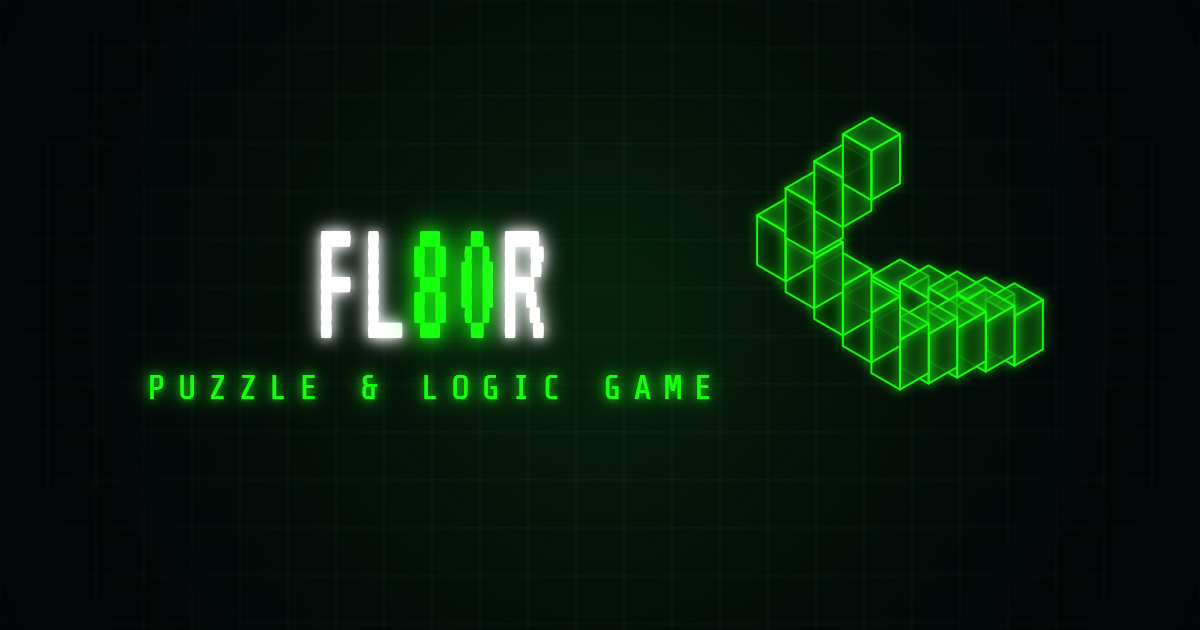
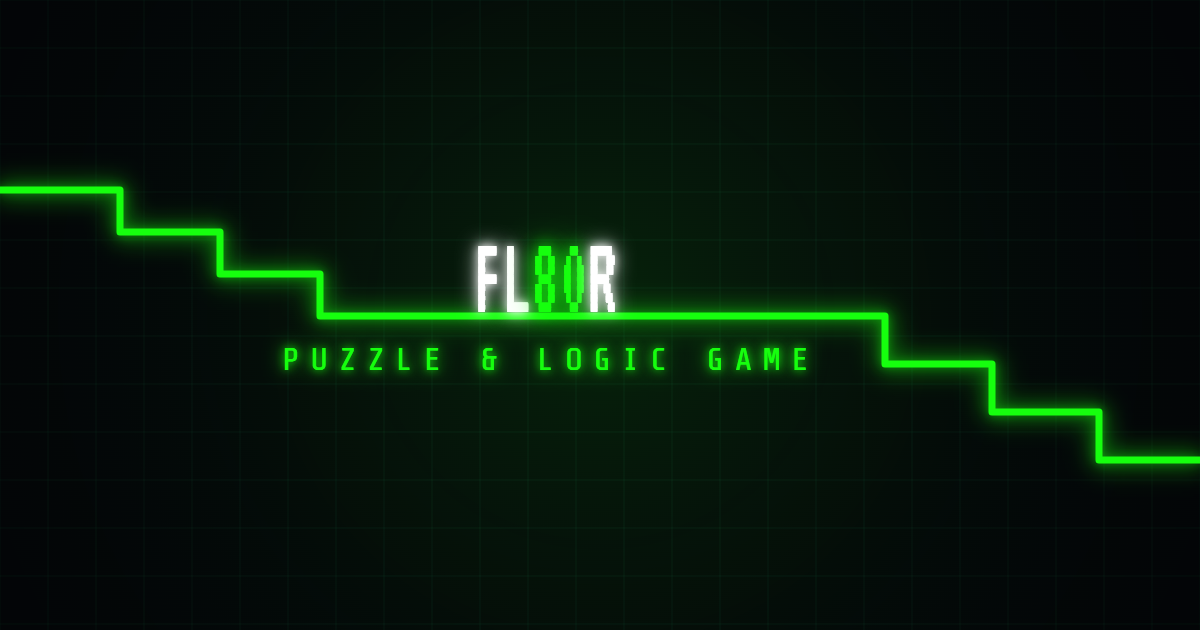
OG image: redesign as a flat side-view neon staircase
Replaced the isometric block staircase with a 2D side-profile staircase line
that descends across the whole banner, with FL80R resting on the center
landing and the "Puzzle & Logic Game" subtitle just below it (matching the
requested layout).

Changed region(s): [[0.0, 0.181, 1.0, 0.754]]

diff --git a/fl80r-game/tools/og-gen.html b/fl80r-game/tools/og-gen.html
@@ -14,78 +14,51 @@
     <script>
       const GREEN = "#16ff0e";
 
-      function isoPt(x, y, z, s, ox, oy) {
-        const cos = Math.cos(Math.PI / 6), sin = Math.sin(Math.PI / 6);
-        return {
-          x: ox + (x - y) * cos * s,
-          y: oy + (x + y) * sin * s - z * s,
+      function background(ctx, W, H) {
+        ctx.fillStyle = "#04070a";
+        ctx.fillRect(0, 0, W, H);
+        const g = ctx.createRadialGradient(W / 2, H / 2, 40, W / 2, H / 2, W * 0.6);
+        g.addColorStop(0, "rgba(22,255,14,0.10)");
+        g.addColorStop(1, "rgba(0,0,0,0)");
+        ctx.fillStyle = g;
+        ctx.fillRect(0, 0, W, H);
+        ctx.strokeStyle = "rgba(26,158,110,0.10)";
+        ctx.lineWidth = 1;
+        for (let x = 0; x <= W; x += 48) { ctx.beginPath(); ctx.moveTo(x, 0); ctx.lineTo(x, H); ctx.stroke(); }
+        for (let y = 0; y <= H; y += 48) { ctx.beginPath(); ctx.moveTo(0, y); ctx.lineTo(W, y); ctx.stroke(); }
+        const v = ctx.createRadialGradient(W / 2, H / 2, H * 0.3, W / 2, H / 2, W * 0.75);
+        v.addColorStop(0, "rgba(0,0,0,0)");
+        v.addColorStop(1, "rgba(0,0,0,0.5)");
+        ctx.fillStyle = v;
+        ctx.fillRect(0, 0, W, H);
+      }
+
+      // Flat 2D side-profile staircase line, descending left to right,
+      // with a wide landing in the middle where the wordmark rests.
+      function drawStairLine(ctx, pts) {
+        const trace = () => {
+          ctx.beginPath();
+          pts.forEach((p, i) => (i ? ctx.lineTo(p[0], p[1]) : ctx.moveTo(p[0], p[1])));
         };
-      }
-
-      // Impossible (Penrose) staircase: solid neon step-blocks around a
-      // square loop, each a little higher than the last.
-      function facePath(ctx, pts) {
-        ctx.beginPath();
-        ctx.moveTo(pts[0].x, pts[0].y);
-        for (let i = 1; i < pts.length; i++) ctx.lineTo(pts[i].x, pts[i].y);
-        ctx.closePath();
-      }
-
-      function drawStairs(ctx, ox, oy, s, opacity) {
-        const L = 4;          // steps per side
-        const riseZ = 0.32;   // rise per step (low so the loop stays compact)
-        const T = 1.5;        // block thickness (tall enough to read as a step)
-
-        // Footprint cells clockwise around a square ring (no duplicate corners).
-        const cells = [];
-        for (let x = 0; x < L; x++) cells.push([x, 0]);
-        for (let y = 0; y < L; y++) cells.push([L, y]);
-        for (let x = L; x > 0; x--) cells.push([x, L]);
-        for (let y = L; y > 0; y--) cells.push([0, y]);
-
-        // Center the footprint around the origin.
-        const mid = L / 2;
         ctx.save();
-        ctx.globalAlpha = opacity;
+        ctx.strokeStyle = GREEN;
+        ctx.shadowColor = GREEN;
         ctx.lineJoin = "round";
-
-        cells.forEach(([cx0, cy0], i) => {
-          const cx = cx0 - mid, cy = cy0 - mid;
-          const zTop = i * riseZ + T;
-          const zBot = i * riseZ;
-
-          const P = (x, y, z) => isoPt(x, y, z, s, ox, oy);
-          // top face
-          const t = [P(cx, cy, zTop), P(cx + 1, cy, zTop), P(cx + 1, cy + 1, zTop), P(cx, cy + 1, zTop)];
-          // right face (x+1 plane)
-          const r = [P(cx + 1, cy, zTop), P(cx + 1, cy + 1, zTop), P(cx + 1, cy + 1, zBot), P(cx + 1, cy, zBot)];
-          // left/front face (y+1 plane)
-          const l = [P(cx, cy + 1, zTop), P(cx + 1, cy + 1, zTop), P(cx + 1, cy + 1, zBot), P(cx, cy + 1, zBot)];
-
-          ctx.shadowBlur = 0;
-          facePath(ctx, l); ctx.fillStyle = "rgba(6,40,6,0.92)"; ctx.fill();
-          facePath(ctx, r); ctx.fillStyle = "rgba(10,70,10,0.92)"; ctx.fill();
-          facePath(ctx, t); ctx.fillStyle = "rgba(16,120,16,0.55)"; ctx.fill();
-
-          ctx.strokeStyle = GREEN;
-          ctx.shadowColor = GREEN;
-          ctx.shadowBlur = 10;
-          ctx.lineWidth = 2;
-          facePath(ctx, l); ctx.stroke();
-          facePath(ctx, r); ctx.stroke();
-          facePath(ctx, t); ctx.stroke();
-        });
+        ctx.lineCap = "round";
+        // outer glow
+        ctx.lineWidth = 7; ctx.shadowBlur = 24; trace(); ctx.stroke();
+        // inner bright core
+        ctx.lineWidth = 3.2; ctx.shadowBlur = 10; trace(); ctx.stroke();
         ctx.restore();
       }
 
-      function drawWordmark(ctx, cx, cy) {
-        // Condensed VT323 like the game (scaleX 0.62)
-        const size = 190;
+      function drawWordmark(ctx, cx, baseY) {
+        const size = 116;
         ctx.save();
-        ctx.translate(cx, cy);
+        ctx.translate(cx, baseY);
         ctx.scale(0.62, 1);
         ctx.font = `${size}px VT323, monospace`;
-        ctx.textBaseline = "middle";
+        ctx.textBaseline = "alphabetic";
         ctx.textAlign = "left";
         const parts = [
           { t: "FL", c: "#ffffff" },
@@ -97,66 +70,50 @@
         for (const p of parts) {
           ctx.fillStyle = p.c;
           ctx.shadowColor = p.c === GREEN ? GREEN : "#ffffff";
-          ctx.shadowBlur = p.c === GREEN ? 34 : 22;
+          ctx.shadowBlur = p.c === GREEN ? 30 : 20;
           ctx.fillText(p.t, x, 0);
-          // second pass for stronger glow
-          ctx.shadowBlur = p.c === GREEN ? 18 : 12;
+          ctx.shadowBlur = p.c === GREEN ? 16 : 10;
           ctx.fillText(p.t, x, 0);
           x += ctx.measureText(p.t).width;
         }
         ctx.restore();
       }
 
-      function drawSubtitle(ctx, cx, cy) {
+      function drawSubtitle(ctx, cx, baseY) {
         ctx.save();
-        ctx.font = "34px 'Share Tech Mono', monospace";
+        ctx.font = "32px 'Share Tech Mono', monospace";
         ctx.textAlign = "center";
-        ctx.textBaseline = "middle";
-        ctx.letterSpacing = "12px";
+        ctx.textBaseline = "alphabetic";
+        ctx.letterSpacing = "11px";
         ctx.fillStyle = GREEN;
         ctx.shadowColor = GREEN;
-        ctx.shadowBlur = 22;
-        ctx.fillText("PUZZLE & LOGIC GAME", cx + 6, cy); // +6 to visually center with letter-spacing
-        ctx.shadowBlur = 10;
-        ctx.fillText("PUZZLE & LOGIC GAME", cx + 6, cy);
+        ctx.shadowBlur = 20;
+        ctx.fillText("PUZZLE & LOGIC GAME", cx + 6, baseY);
+        ctx.shadowBlur = 9;
+        ctx.fillText("PUZZLE & LOGIC GAME", cx + 6, baseY);
         ctx.restore();
       }
 
-      function background(ctx, W, H) {
-        ctx.fillStyle = "#04070a";
-        ctx.fillRect(0, 0, W, H);
-        // radial green glow
-        const g = ctx.createRadialGradient(W / 2, H / 2, 40, W / 2, H / 2, W * 0.6);
-        g.addColorStop(0, "rgba(22,255,14,0.10)");
-        g.addColorStop(1, "rgba(0,0,0,0)");
-        ctx.fillStyle = g;
-        ctx.fillRect(0, 0, W, H);
-        // grid
-        ctx.strokeStyle = "rgba(26,158,110,0.10)";
-        ctx.lineWidth = 1;
-        for (let x = 0; x <= W; x += 48) { ctx.beginPath(); ctx.moveTo(x, 0); ctx.lineTo(x, H); ctx.stroke(); }
-        for (let y = 0; y <= H; y += 48) { ctx.beginPath(); ctx.moveTo(0, y); ctx.lineTo(W, y); ctx.stroke(); }
-        // vignette
-        const v = ctx.createRadialGradient(W / 2, H / 2, H * 0.3, W / 2, H / 2, W * 0.75);
-        v.addColorStop(0, "rgba(0,0,0,0)");
-        v.addColorStop(1, "rgba(0,0,0,0.55)");
-        ctx.fillStyle = v;
-        ctx.fillRect(0, 0, W, H);
-      }
-
       window.renderOG = async function () {
-        await document.fonts.load("190px VT323");
-        await document.fonts.load("34px 'Share Tech Mono'");
+        await document.fonts.load("116px VT323");
+        await document.fonts.load("32px 'Share Tech Mono'");
         await document.fonts.ready;
         const cv = document.getElementById("c");
         const ctx = cv.getContext("2d");
         const W = cv.width, H = cv.height;
         background(ctx, W, H);
-        // Single impossible staircase as a feature on the right.
-        drawStairs(ctx, W - 300, H / 2 + 60, 33, 0.95);
-        // Wordmark + subtitle on the left-center.
-        drawWordmark(ctx, 430, H / 2 - 34);
-        drawSubtitle(ctx, 430, H / 2 + 74);
+
+        // Descending staircase across the whole banner.
+        const pts = [
+          [0, 190], [120, 190], [120, 232], [220, 232], [220, 274], [320, 274], [320, 316],
+          [885, 316],                 // wide landing (wordmark + subtitle clear it)
+          [885, 364], [992, 364], [992, 412], [1099, 412], [1099, 460], [1200, 460],
+        ];
+        drawStairLine(ctx, pts);
+
+        // Wordmark sits on the landing; subtitle floats just below.
+        drawWordmark(ctx, 545, 312);
+        drawSubtitle(ctx, 545, 370);
         return cv.toDataURL("image/png");
       };
     </script>
